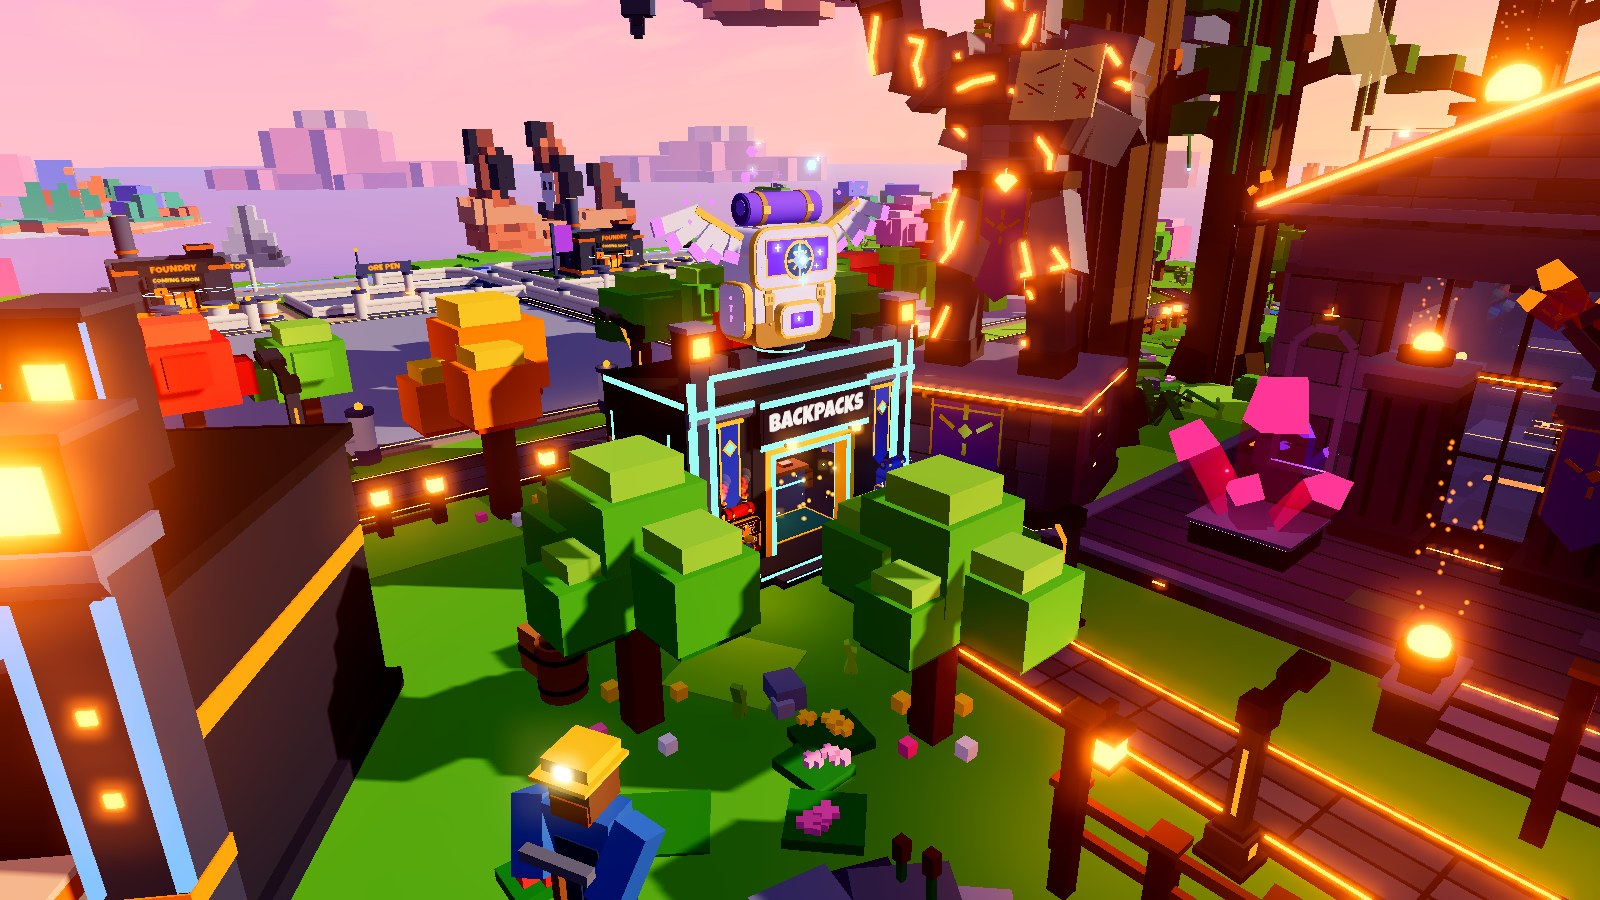
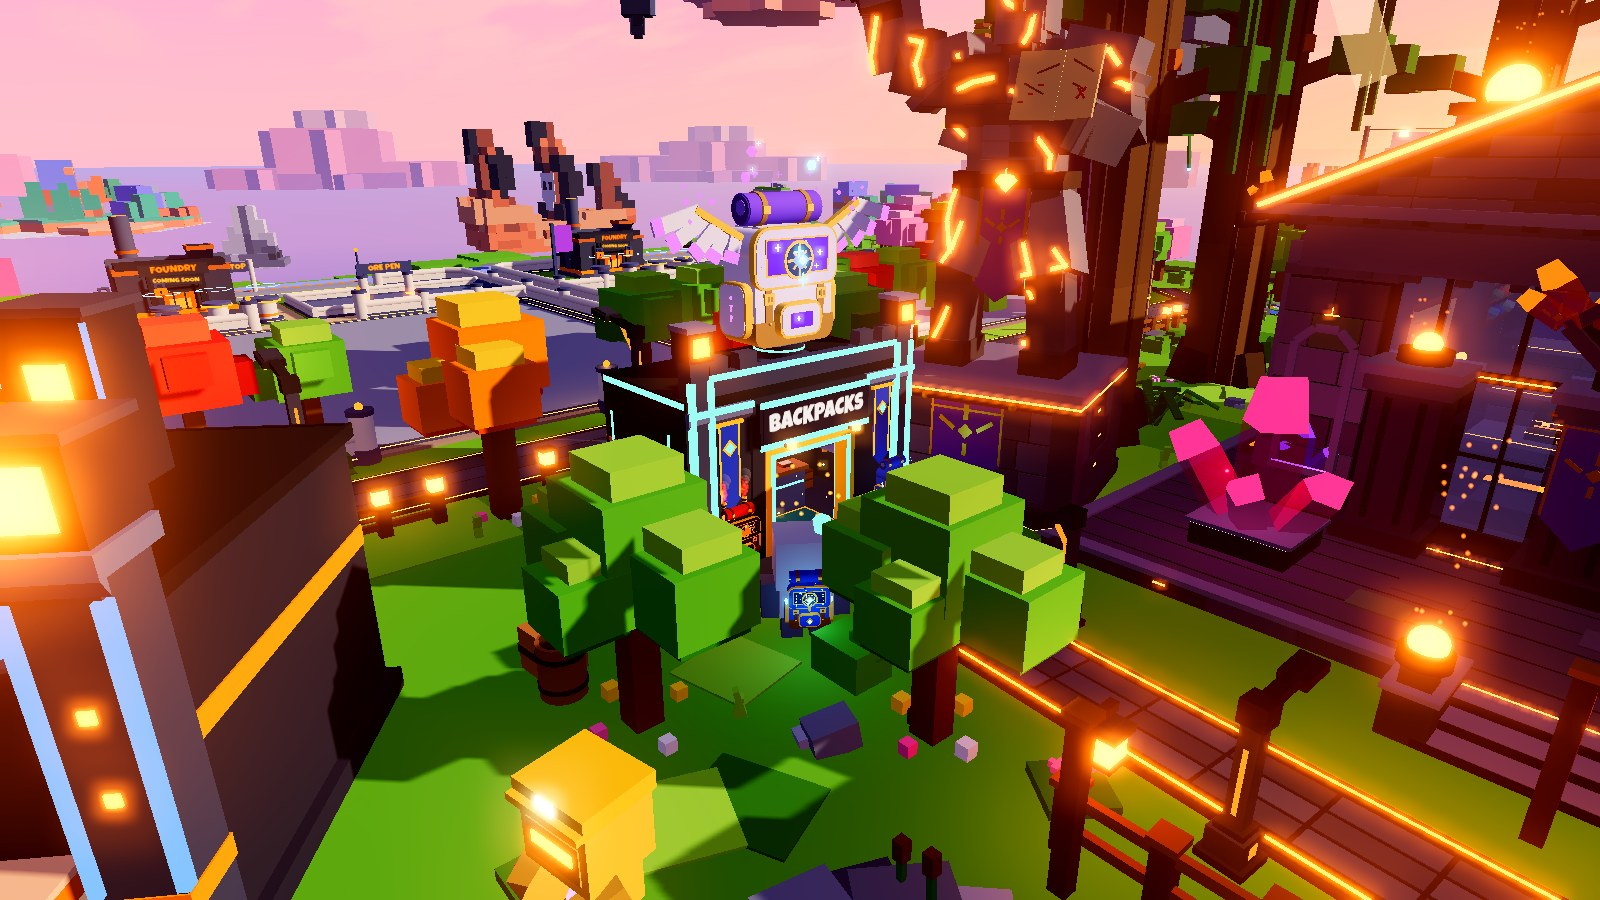
Golems: one with a backpack by the BACKPACKS porch, mining golems round the plaza (owner 2026-10-25)
- LobbyLayout piece BackpackGolem (36, 0, 66.5): a lean golem (Districts Kit.golem,
  size 2.3, iron with teal eyes) looking at the shop, the Runebound pack on its
  back (an invisible plate GolemPack: DisplayRange 33, DisplayLite); the clients
  find it beside the shop model (BackpackWearController.GolemName).
- Plaza Life: the miner spots are mining golems (owner: all of them): a hard hat
  with a lamp, a pickaxe on the shoulder, swung at an ore rock or a glowing chunk
  held up; 13-17 parts like the old miners.
- Tests: the golem, its plate, and its pack in the phone budget spots and the
  gateway count. Preview: the golem's pack, no human shopper.

check.sh: ALL CHECKS PASSED (1881 tests, baked map v58 with 33,387 parts).

diff --git a/docs/plans/BACKPACKS.md b/docs/plans/BACKPACKS.md
@@ -79,6 +79,12 @@ green, each with a flower ring (Flora/Trees.backpackTrees, ~60 parts; Flora Lobb
 meadow now keeps 12 studs off the railway tunnel mouths, a re-rolled lawn tuft touched the
 south-east portal).
 
+Golems (owner 2026-10-25): a golem stands by the porch with the Runebound pack on its back (piece
+`BackpackGolem` (36, 0, 66.5), lean Districts Kit.golem, size 2.3, the pack on an invisible plate
+`GolemPack`: DisplayRange 33, DisplayLite), and Plaza Life's 9 miner spots are mining golems
+(`Life.miner` builds a golem with a hard hat: pickaxe on the shoulder, swinging at an ore rock,
+or holding up a glowing chunk; same part count as the old miners).
+
 Budgets (main 958ddb46 -> this branch at 16 wide, the budget tests' own counting; at 18 wide the
 map is 33,445 and every budget test still passes: re-measured at landing): map 33,450 -> 33,459,
 lobby area + museums 14,699 -> 14,681 (LobbyParts 14,730), phones' stream round the spawn
